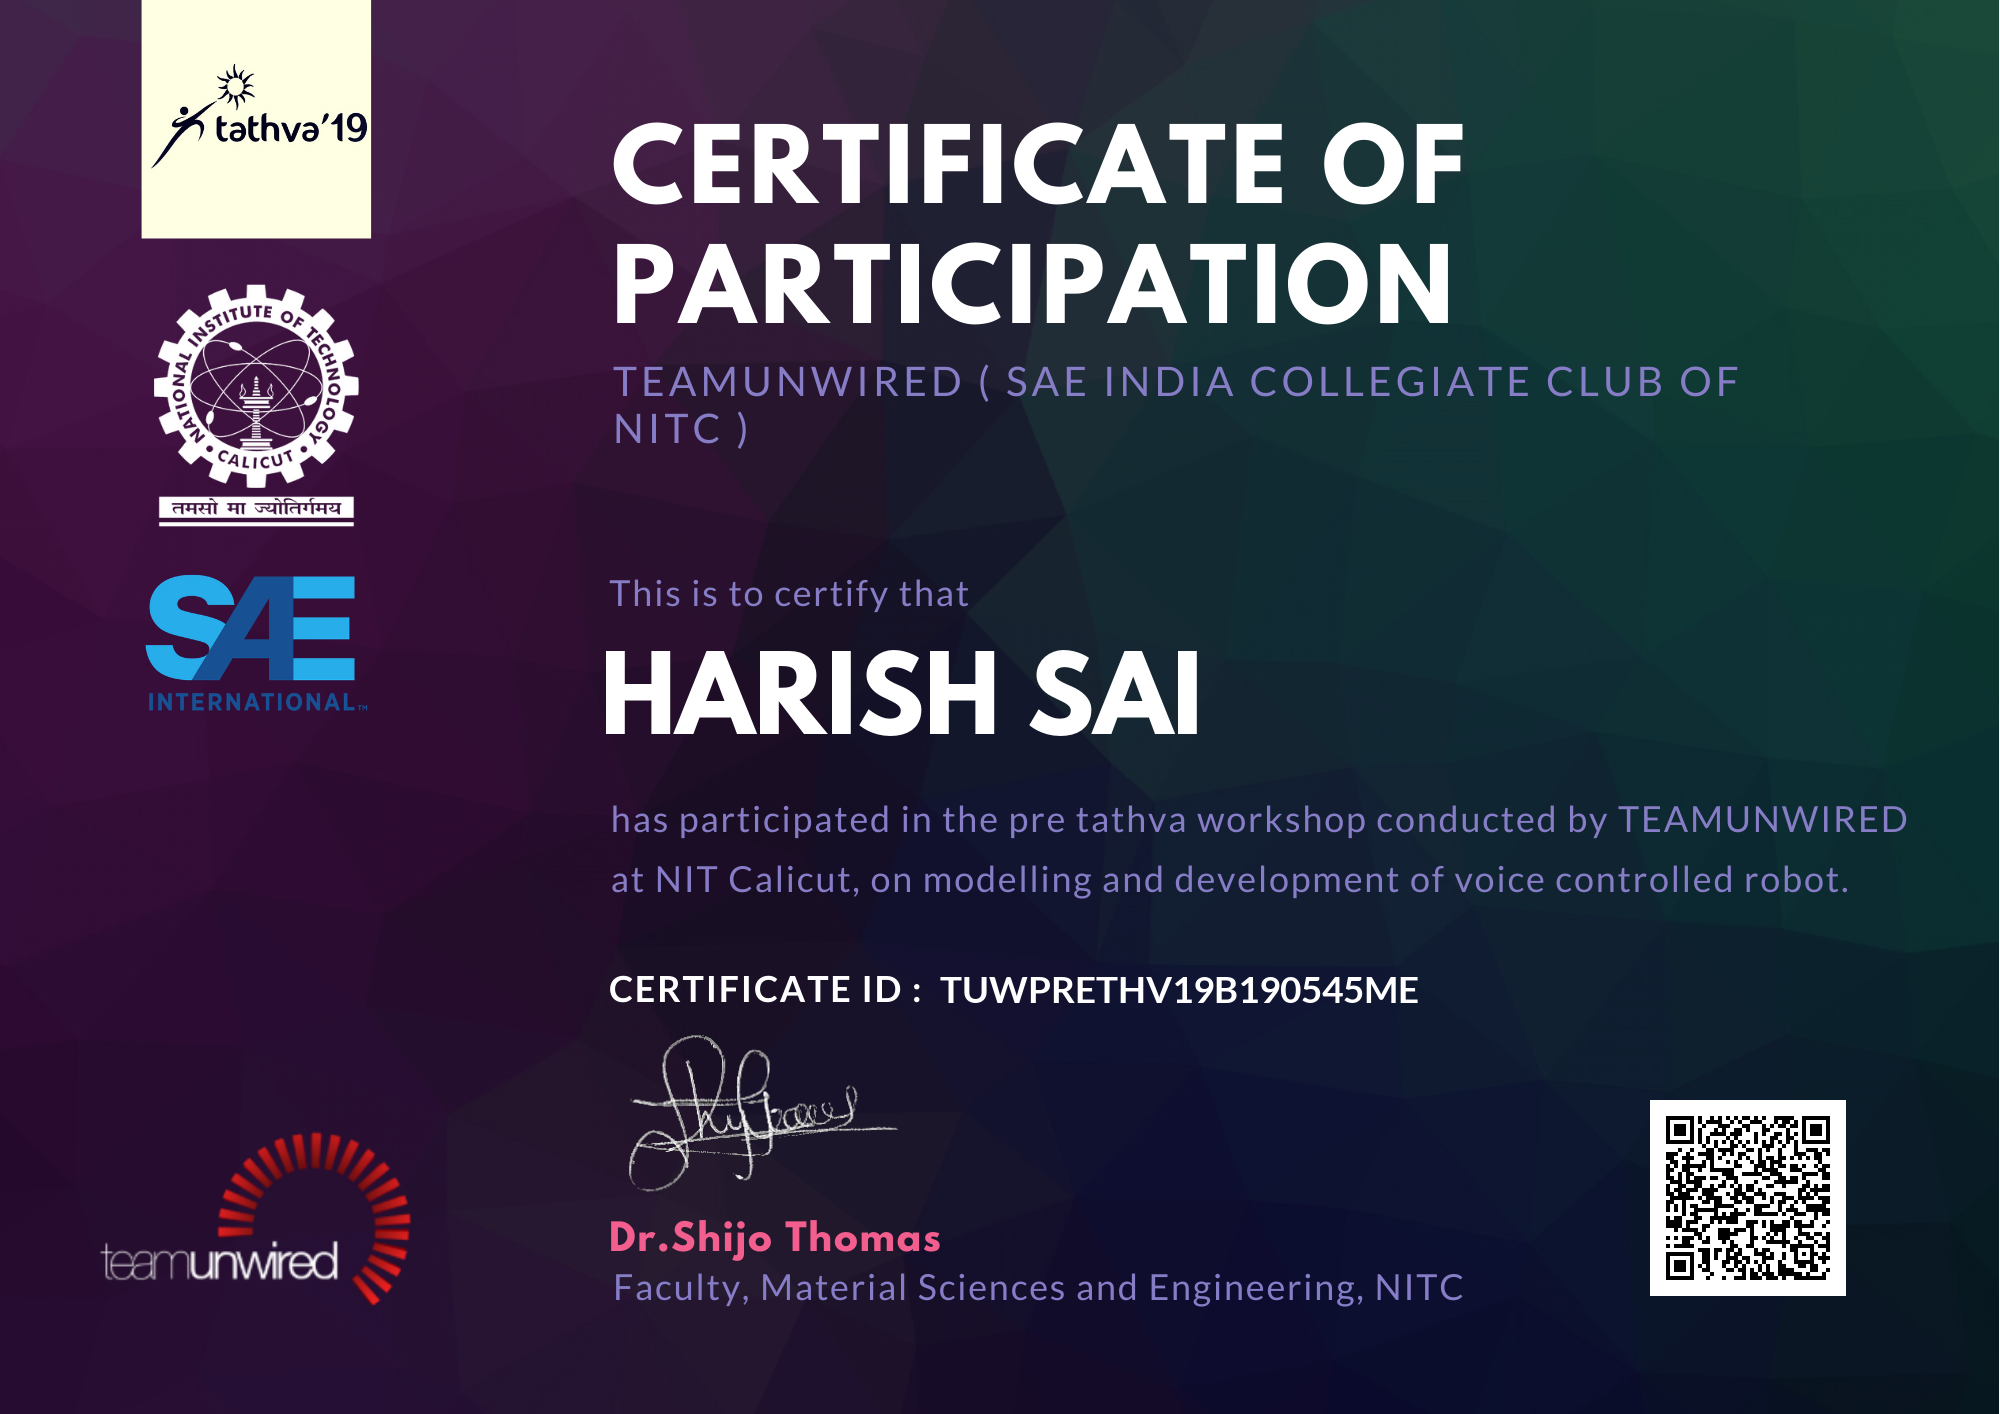
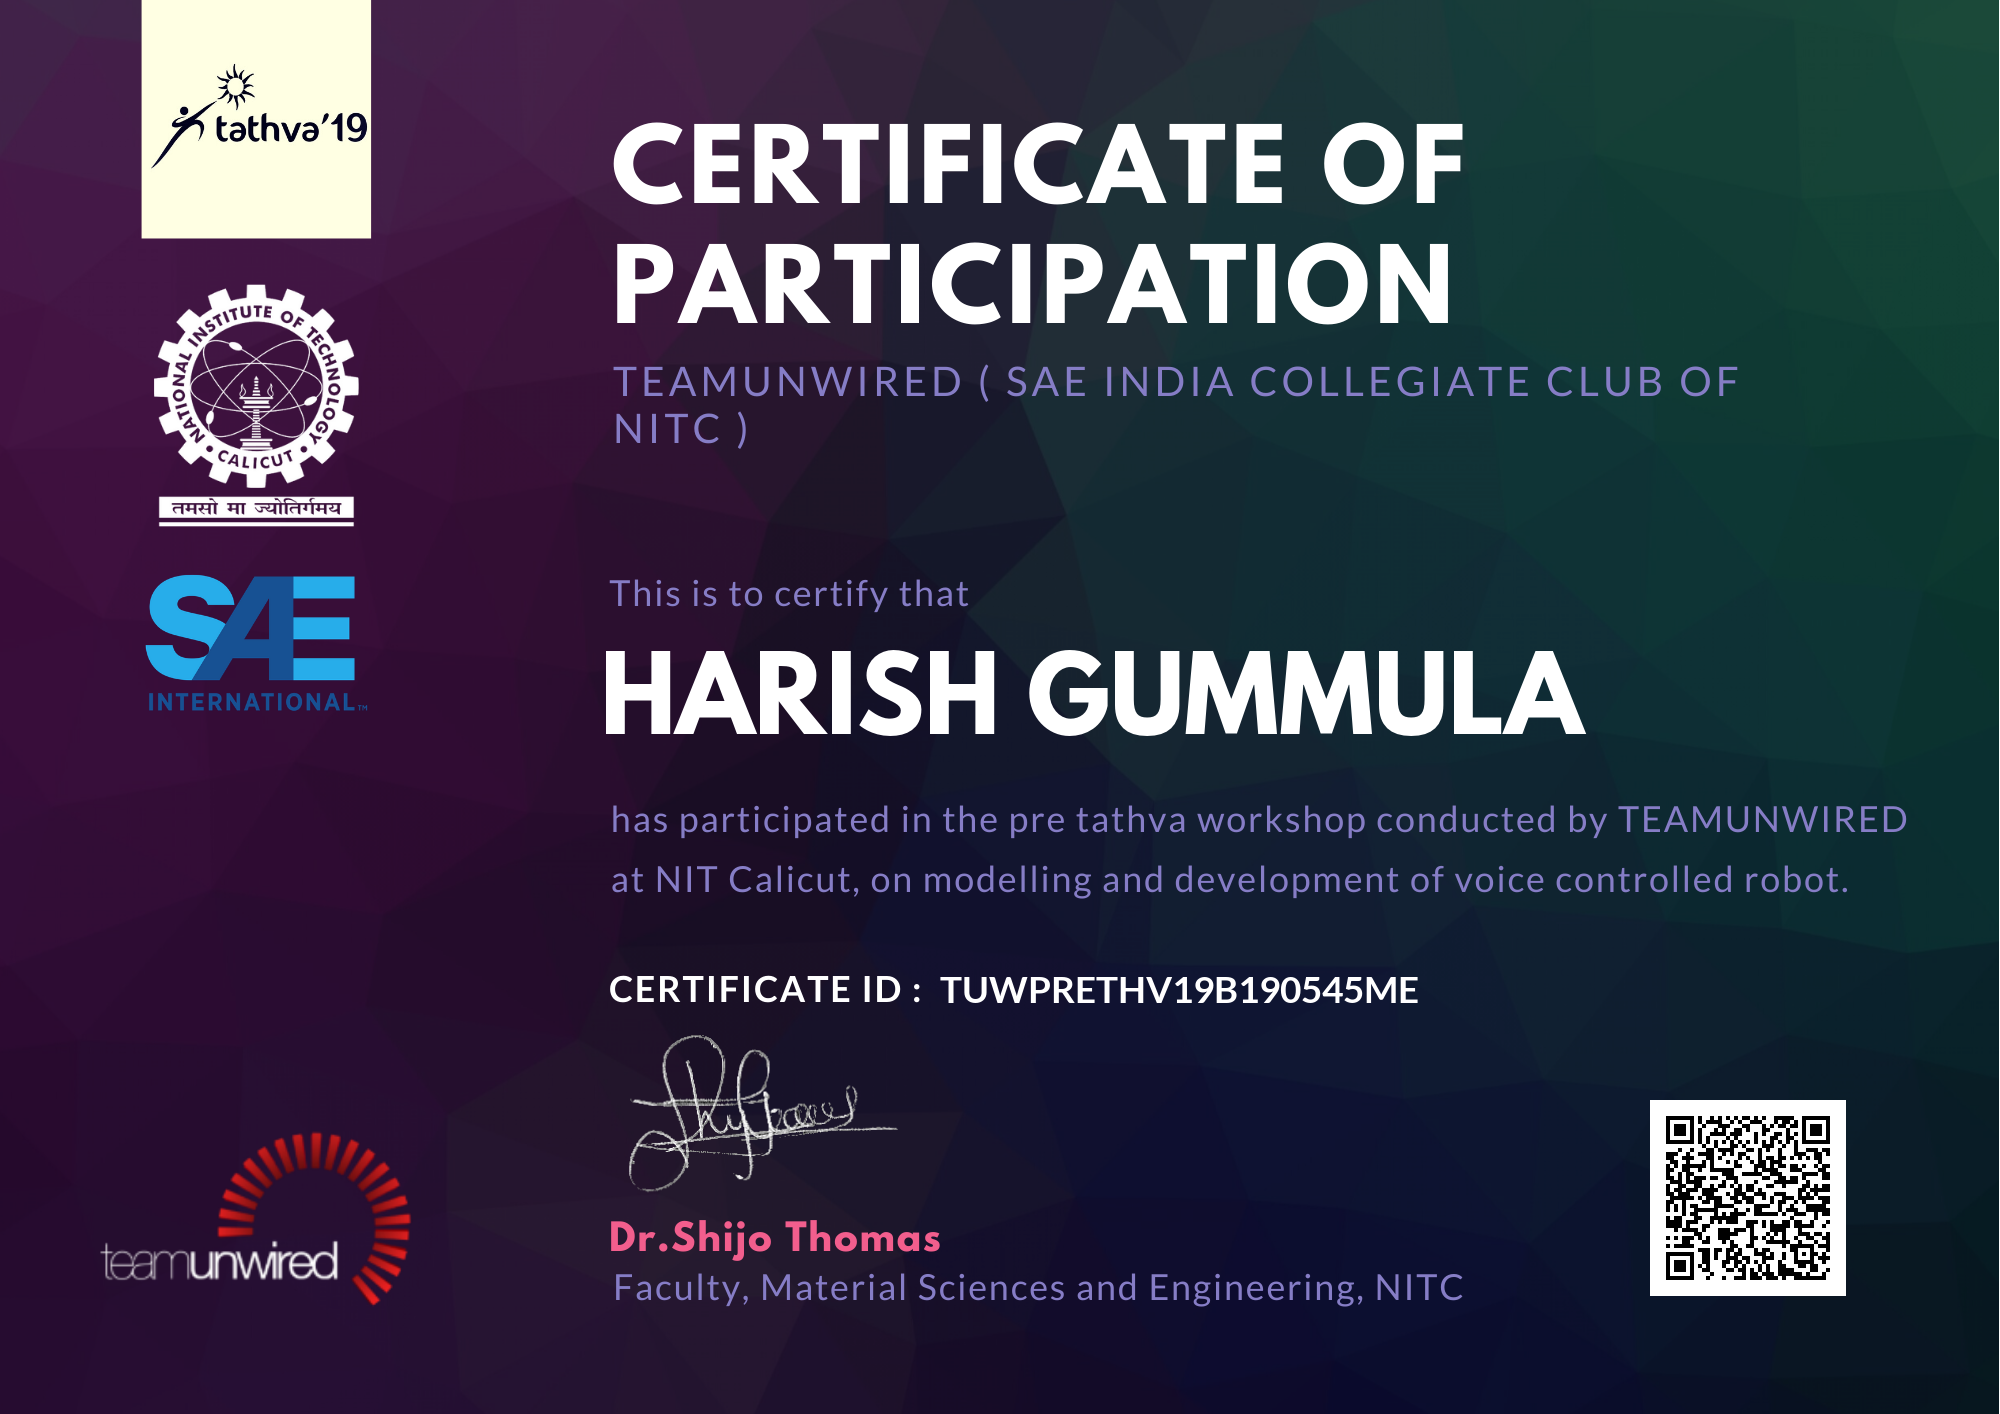
Harish corrected

Changed region(s): [[0.496, 0.4356, 0.806, 0.529]]

diff --git a/verification/B190545ME.html b/verification/B190545ME.html
@@ -130,7 +130,7 @@
                             </div>                
 
                             <div class="card-box">
-                                <p class="block-text mbr-fonts-style display-5"><em>Harish Sai</em></p>
+                                <p class="block-text mbr-fonts-style display-5"><em>Harish Gummula</em></p>
                             </div>
                         </div>
 
